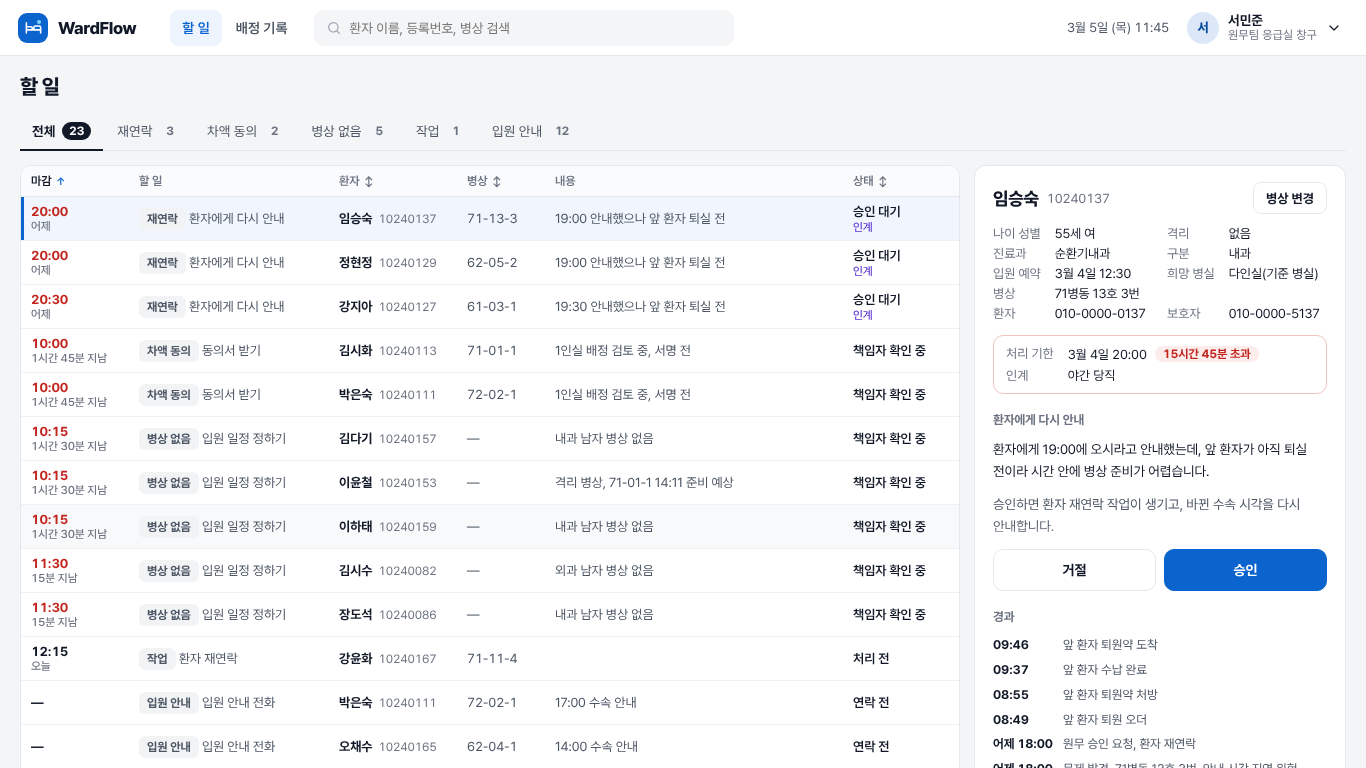
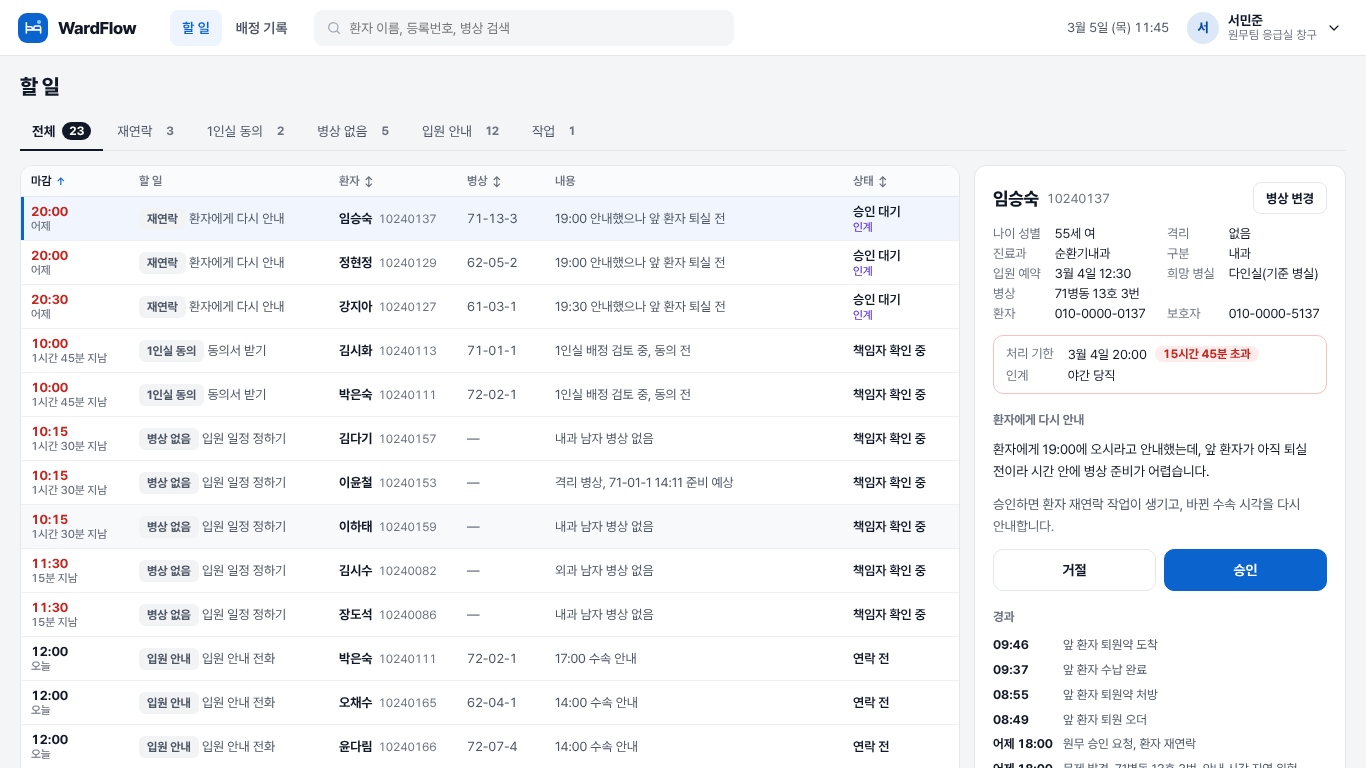
원무 검수 반영(입원 안내 마감 12시, 수속 시각 17:30까지, 입원 연기·취소 기록, 1인실 전액 부담 문구, 격리 1인실 동의 제외), 첫 요청 동시 빌드 잠금
Claude-Session: https://claude.ai/code/session_01LTbFbGTsqcm4pRk2rt9J7f

diff --git a/web/src/pages/Worklist.tsx b/web/src/pages/Worklist.tsx
@@ -9,7 +9,8 @@ import { UndoForm } from '../parts/Undo'
 
 const DAYS = ['일', '월', '화', '수', '목', '금', '토']
 // 수속 안내 시각 선택지: 15분 단위 (브라우저 언어와 상관없이 24시간제로 보이게 select로 둔다)
-const SLOTS = Array.from({ length: 49 }, (_, i) => `${String(8 + Math.floor(i / 4)).padStart(2, '0')}:${String((i % 4) * 15).padStart(2, '0')}`)
+// 입원 수속 창구 운영 시간 안에서만 고른다(강남세브란스 "오후 5시 30분 이후에는 응급실원무 창구"). 09:00~17:30
+const SLOTS = Array.from({ length: 35 }, (_, i) => `${String(9 + Math.floor(i / 4)).padStart(2, '0')}:${String((i % 4) * 15).padStart(2, '0')}`)
 const DECLINE = ['원무가 직접 처리', '환자 사정으로 보류', '병동과 통화로 해결', '기타']
 
 function clock(d: Date) {
@@ -54,7 +55,7 @@ function Memo({ v, set, need }: { v: string; set: (s: string) => void; need: boo
 // 처리 영역: 할 일 종류마다 실제로 누르는 처리 하나. 결과는 서버에 사람 기록으로 남는다.
 function Action({ r, onDone }: { r: Row; onDone: (msg: string) => void }) {
   const [time, setTime] = useState(r.suggest_at)
-  const [outcome, setOutcome] = useState<'done' | 'no_answer'>('done')
+  const [outcome, setOutcome] = useState<'done' | 'no_answer' | 'postpone' | 'cancel'>('done')
   const [choice, setChoice] = useState<string | null>(null)
   const [declining, setDeclining] = useState(false)
   const [reason, setReason] = useState<string | null>(null)
@@ -72,18 +73,21 @@ function Action({ r, onDone }: { r: Row; onDone: (msg: string) => void }) {
     <div className="seg">
       <button className={outcome === 'done' ? 'on' : ''} onClick={() => setOutcome('done')}>통화함</button>
       <button className={outcome === 'no_answer' ? 'on' : ''} onClick={() => setOutcome('no_answer')}>연락 안 됨</button>
+      <button className={outcome === 'postpone' ? 'on' : ''} onClick={() => setOutcome('postpone')}>입원 연기</button>
+      <button className={outcome === 'cancel' ? 'on' : ''} onClick={() => setOutcome('cancel')}>입원 취소</button>
     </div>
     {outcome === 'done' && (<>
       <div className="field"><label htmlFor="pt">환자에게 안내한 수속 시각</label>
         <select id="pt" value={time} onChange={e => setTime(e.target.value)}>{[...new Set([...SLOTS, r.suggest_at])].filter(Boolean).sort().map(t => <option key={t}>{t}</option>)}</select></div>
       <div className="note">추천 시각은 {r.suggest_at}입니다. 입원 예정 시각과 병상 준비 예상을 함께 본 값입니다.</div>
     </>)}
-    <Memo v={memo} set={setMemo} need={false} />
+    <Memo v={memo} set={setMemo} need={outcome === 'postpone' || outcome === 'cancel'} />
     {err && <div className="err">{err}</div>}
-    <button className="btn p full" disabled={busy || (outcome === 'done' && !time)} onClick={() => run(async () => {
+    <button className="btn p full" disabled={busy || (outcome === 'done' && !time) || ((outcome === 'postpone' || outcome === 'cancel') && !memo.trim())} onClick={() => run(async () => {
       await api.contact(r.case, outcome, time, memo)
-      return outcome === 'done' ? `${r.patient} 입원 안내를 기록했습니다` : `${r.patient} 연락 안 됨을 기록했습니다. 할 일은 남겨 둡니다`
-    })}>{outcome === 'done' ? '연락함으로 기록' : '연락 안 됨 기록'}</button>
+      return { done: `${r.patient} 입원 안내를 기록했습니다`, no_answer: `${r.patient} 연락 안 됨을 기록했습니다. 할 일은 남겨 둡니다`,
+        postpone: `${r.patient} 입원 연기를 기록했습니다. 병상을 풀었습니다`, cancel: `${r.patient} 입원 취소를 기록했습니다. 병상을 풀었습니다` }[outcome]
+    })}>{{ done: '연락함으로 기록', no_answer: '연락 안 됨 기록', postpone: '입원 연기 기록', cancel: '입원 취소 기록' }[outcome]}</button>
   </>)
 
   if (r.kind === 'task') return (<>

diff --git a/web/src/api.ts b/web/src/api.ts
@@ -64,7 +64,7 @@ export const api = {
   assign: (c: string, bed: string, reason: string, memo: string) => call('/api/assign', { method: 'POST', body: JSON.stringify({ case: c, bed, reason, memo }) }),
   assignments: (day?: string) => call<{ now: string; day: string; days: string[]; rows: Assignment[] }>(`/api/assignments${day ? `?day=${day}` : ''}`),
   patient: (c: string) => call<Patient>(`/api/patients/${encodeURIComponent(c)}`),
-  contact: (c: string, outcome: 'done' | 'no_answer', promised_at: string, memo: string) =>
+  contact: (c: string, outcome: 'done' | 'no_answer' | 'postpone' | 'cancel', promised_at: string, memo: string) =>
     call(`/api/contacts/${encodeURIComponent(c)}`, { method: 'POST', body: JSON.stringify({ outcome, promised_at, memo }) }),
   taskDone: (id: string, result: string, memo: string) => call(`/api/tasks/${encodeURIComponent(id)}/done`, { method: 'POST', body: JSON.stringify({ result, memo }) }),
   approval: (id: string, verb: 'approve' | 'decline', reason = '', memo = '') =>

diff --git a/src/turnaround/api/worklist.py b/src/turnaround/api/worklist.py
@@ -129,7 +129,9 @@ def admission_rows(st) -> dict:
     for x in a["contacts"]:
         tries = sum(1 for n in notes(ev, x["case"]) if n["tag"] == "contact_no_answer")
         reason = f"{x['suggest_at']:%H:%M} 수속 안내" + (f", 연락 안 됨 {tries}회" if tries else "")
-        add(x["case"], "contact", "입원 안내", "입원 안내 전화", None, False, x["bed"], reason,
+        # 입원 당일 오전에 연락한다(세브란스 "당일 오전(08:30~11:00)", 분당서울대 "오전 11시30분경"). 마감 12:00은 설계 가정
+        due = now.replace(hour=12, minute=0, second=0, microsecond=0)
+        add(x["case"], "contact", "입원 안내", "입원 안내 전화", due, due < now, x["bed"], reason,
             "다시 연락" if tries else "연락 전", suggest_at=f"{x['suggest_at']:%H:%M}",
             situation=f"{x['bed_ko']} 병상이 {x['committed']}에 확정됐습니다. 수속 시각과 병동을 안내하세요.")
     for x in a["tasks"]:
@@ -149,14 +151,16 @@ def admission_rows(st) -> dict:
                     "situation": f"{need}이 오늘 나지 않아 에이전트가 배정을 멈추고 원무에 넘겼습니다."
                                  + (f" 입원 예약은 {datetime.fromisoformat(req):%-m월 %-d일 %H:%M}입니다." if req else ""),
                     "effect": "환자에게 어떻게 안내했는지 고르세요."}
+        elif x["raw_kind"] == "fee_consent" and (people.get(x["case"]) or {}).get("precautions"):
+            continue  # 격리 목적 1인실은 상급병실 비용 대상이 아니다(요양급여 기준 별표 2 단서). 동의 작업을 보이지 않는다
         elif x["raw_kind"] == "fee_consent":
             # 상급병실(1인실 등)에 배정되면 차액 동의 서명을 받아야 한다 (게이트웨이가 만드는 작업, LP-22)
             rt = st.gw.room_by_id[st.gw.room_of[x["bed"]]].room_type.value if x.get("bed") in st.gw.room_of else ""
             grade = {"single": "1인실", "negative_pressure": "음압 1인실"}.get(rt, "상급병실")
-            label, action, reason = "차액 동의", "동의서 받기", f"{grade} 배정 검토 중, 서명 전"
+            label, action, reason = "1인실 동의", "동의서 받기", f"{grade} 배정 검토 중, 동의 전"
             more = {"choices": [{"label": "서명 받음", "desc": "동의서 서명 완료"}, {"label": "동의 안 함", "desc": "기준 병실로 다시 찾아야 함"},
                                 {"label": "기타", "desc": "메모에 내용 적기"}],
-                    "situation": f"{grade} 배정을 검토 중입니다. 기준 병실과의 차액에 대해 환자나 보호자의 동의 서명이 필요합니다."}
+                    "situation": f"{grade} 배정을 검토 중입니다. 상급병실은 입원실 이용 비용 전액을 본인이 부담하므로(요양급여 기준 별표 2) 환자나 보호자의 동의가 필요합니다."}
         else:
             label, action, reason = "작업", x["kind"], _short(x.get("why") or "")
             more = {"choices": [{"label": "처리함", "desc": "처리를 마쳤습니다"}, {"label": "기타", "desc": "메모에 내용 적기"}],

diff --git a/tests/test_api.py b/tests/test_api.py
@@ -304,3 +304,18 @@ def test_ward_nurse_cannot_switch_to_other_ward_and_admin_cannot_act_as_admissio
     assert client.get("/api/worklist", headers=a).status_code == 403
     rows = _rows(client, _login(client))
     assert client.get(f"/api/patients/{rows[0]['case']}", headers=a).status_code == 403  # 의료정보팀은 환자 정보가 아니라 접속기록을 본다
+
+
+def test_contact_can_record_cancel_and_releases_bed():
+    c = TestClient(create_app())
+    h = _login(c)
+    row = next(r for r in _rows(c, h) if r["kind"] == "contact")
+    assert row["due"] == "12:00"  # 입원 당일 오전 연락 마감
+    assert c.post(f"/api/contacts/{row['case']}", json={"outcome": "cancel", "memo": ""}, headers=h).status_code == 422
+    r = c.post(f"/api/contacts/{row['case']}", json={"outcome": "cancel", "memo": "보호자 사정으로 취소"}, headers=h)
+    assert r.status_code == 200, r.text
+    assert row["case"] not in {x["case"] for x in _rows(c, h) if x["kind"] == "contact"}
+    from turnaround.saga import fold
+    st = c.app.state.store.demo()
+    m = fold(st.store.read()).matches.get(row["case"])
+    assert m is None or not m.active  # 사가가 병상을 풀었다

diff --git a/src/turnaround/ui/demo.py b/src/turnaround/ui/demo.py
@@ -35,6 +35,7 @@ class DemoState:
     reviewer: object = None  # 사람 응답 모형 (없으면 늘 승인, 로드맵 07 M3)
     log: list[str] = field(default_factory=list)
     advance: object = None  # advance(to): 재생을 이어서 돌린다
+    saga: object = None  # 화면에서 사람이 사건을 남긴 뒤 사가를 한 번 돌릴 때 쓴다(입원 취소 등)
     live_from: datetime | None = None  # 이 시각부터 원무 연락은 화면의 사람이 한다(웹 운영 화면, 측정에는 쓰지 않음)
 
 
@@ -97,6 +98,7 @@ def build_demo(seed: int = 42, day: int = 2, until: time = time(9, 30), via_fhir
     base = datetime.combine(h.config.base_date + timedelta(days=day), time())
     end = datetime.combine(base.date(), until)
     st = DemoState(h, store, gw, agent, base - timedelta(hours=8), entries)
+    st.saga = saga
     if live_from is not None:
         st.live_from = datetime.combine(base.date(), live_from)
     st.reviewer = reviewer

diff --git a/docs/검토/현실괴리/03_감염관리.md b/docs/검토/현실괴리/03_감염관리.md
@@ -1,0 +1,62 @@
+# 현실 격차 검토 03: 감염관리실·감염내과 당직 (병상 턴어라운드 흐름)
+
+작성 2026-11-10. 저장소는 바꾸지 않았다. 이 문서는 검토 기록이다.
+
+## 0. 이번에 직접 연 1차 출처
+
+| 약칭 | 문서 | URL | 확인 방법 |
+|---|---|---|---|
+| HAI2026 | 질병관리청 「2026년도 의료관련감염병 관리지침」(게시 2026.02.02, 166쪽) | https://www.kdca.go.kr/bbs/kdca/55/305038/download.do (게시글 https://www.kdca.go.kr/bbs/kdca/55/309968/artclView.do) | curl로 받고 pdftotext로 원문을 읽음 |
+| 업무지침서 | 질병관리청 「감염관리실 업무 지침서」(2024) | https://www.kdca.go.kr/bbs/kdca/55/260019/download.do | 앞선 세션에서 받은 PDF 원문(scratchpad research/field/kdca.pdf) |
+| 표준2017 | 질병관리청 「의료관련감염 표준예방지침」(2017), 부록 1 다제내성균, CDI 지침 포함 | (제3자 사본, 프로젝트가 이미 쓰는 사본) | 사본 원문(scratchpad research/field/std.txt) |
+| 가이드맵 | 질병관리청 「의료감염관리 지침·안내서 가이드맵」(2026.3 기준) | https://kdca.go.kr/bbs/kdca/49/305914/download.do | curl과 pdftotext |
+| 보도2026 | 질병관리청 보도자료 「의료기관 다제내성균 감염관리 우선순위 제시」(2026.10.28) | https://www.kdca.go.kr/bbs/kdca/42/310486/download.do (게시글 https://kdca.go.kr/bbs/kdca/42/313069/artclView.do) | curl과 pdftotext |
+| 경기CRE | 경기도감염병관리지원단 「전수감시 의료관련감염병(VRSA, CRE) 실무 참고서」 | 기존 조사(현장조사/감염관리_청소_실무.md 1-6)의 URL | 사본 원문 |
+| 권고안 | 질병관리청 「의료기관 환경 표면 청소 및 소독 권고안」(2022) | 기존 조사(3-5)의 대구시 게시본 | 사본 원문 |
+
+가이드맵(2026.3)을 보면 표준예방지침의 최신판은 아직 **2017**이다("의료관련감염 표준예방지침 … 2017 2005 2017"). 그래서 표준2017을 인용하는 것은 지금도 맞다. 해마다 바뀌는 문서는 의료관련감염병 관리지침(2026판)이다. 아래 격차는 대부분 2026판 문구와 대조한 결과다.
+
+## 1. 격차 표
+
+| 번호 | 우리 현재(파일:줄) | 현실(근거 원문 인용 + URL) | 심각도 | 고칠 방향 |
+|---|---|---|---|---|
+| G1 | **접촉주의 병원체는 모두 1인실 또는 코호트실에만 둔다.** 대응표 `src/turnaround/sim/models.py:48-59`에서 MRSA·VRE·CRE·CDIFF가 모두 접촉주의다. `ontology/shapes.ttl:17-25` `IsolationRoomShape`가 다인실을 위반으로 막는다. 에이전트 후보는 SHACL 위반이 없는 병상뿐이다(`agent/tools.py:180` `room_ok[r] = not self.gw._shacl(...)`). 그래서 자리가 없으면 `no_bed`로 간다. 다인실 제자리 격리는 사람의 직접 수정에서만 열린다(`config/policy.yaml:37` `isolation_room: reason_entry`, 사후 검토). 어떤 균을 격리실에 둘지 병원이 정하는 설정도 없다. | ① 보도2026: "21개 참여병원 전체에서 CP-CRE 에 대해서는 병동, 중환자실에서 모두 격리를 시행하는 반면 MRSA는 8개 병원만 격리를 시행하는 것으로 조사되었다. 또한 격리를 시행하는 병원들에서도 별도의 격리장소를 운영하는 경우는 10-30%에 불과" (https://www.kdca.go.kr/bbs/kdca/42/310486/download.do) ② HAI2026 CRE 관리지침 74쪽(VRSA 20쪽도 같은 문구): "구조적 문제 등으로 코호트 격리도 어려운 경우, 환자 병상 간 이격거리는 1m 이상 유지하고, 접촉의 기회를 줄이기 위해 가급적 물리적 차단막을 설치" (https://www.kdca.go.kr/bbs/kdca/55/305038/download.do) ③ 업무지침서 75쪽: "격리실 사용이 필요한 감염성 질환을 정한다." | 높음 | 병원 프로필에 `isolation.room_required_organisms`(격리실이 필요한 균)를 둔다. 기본값은 CRE/CPE, VRSA, 공기주의, CDI로 하고, 나머지 접촉주의 균은 병원 규칙으로 정한다. 그 밖의 접촉주의 환자는 1인실, 코호트, **다인실 제자리 격리(1m, 차단막)** 순으로 에이전트가 제안하게 한다. 이때 감염관리실에 통보하고 사후 검토를 건다. CRE의 사전 승인(`preapproval_organisms`)은 그대로 둔다. 수치(8/21)는 "합성 데이터 기준"과 섞지 말고 근거 카드에만 쓴다. |
+| G2 | **코호트실이 아닌 다인실에서는 동실자 취약성을 검사하지 않는다.** `shapes.ttl:43-49` `ProtectiveInCohortShape`는 `cohortKey`가 있는 병실만 본다. 사유 입력으로 다인실에 넣는 직접 수정 경로(`gateway/gateway.py:1140-1150`)와 G1을 고친 뒤의 제자리 격리에서는 면역저하·개방창상 동실자가 걸러지지 않는다. 반대 방향도 같다. 면역저하 일반 환자를 제자리 격리 환자가 있는 다인실에 넣는 것을 막는 형상이 없다. | ① 표준2017 5.4.2.4: "코호트 격리도 어려운 상황에서 비말주의가 필요한 환자와 동일한 병원체에 감염되지 않은 다른 환자가 공동으로 병실을 사용해야 하는 경우에는 감염의 전파로 인해 예후가 좋지 않을 수 있는 환자(예, 면역저하 환자 등)와 같이 두어서는 안 된다" ② 표준2017 부록1 5.2.1: "코호트 격리도 불가능하다면 다제내성균으로 인한 감염 위험이 높은 환자(면역저하자나 개방창상이 있는 환자 등)와 같은 병실을 피하며" ③ 업무지침서 75쪽: "코호트 격리도 어려운 경우에는 가능한 면역저하자와 동일 병실에 배치하지 않고" (https://www.kdca.go.kr/bbs/kdca/55/260019/download.do) | 높음 | 새 형상 `VulnerableRoommateShape`를 둔다. 격리(접촉·비말) 환자와 면역저하·개방창상 환자가 코호트가 아닌 같은 다인실에 있으면 위반이다. 양방향으로 본다. 예외 등급은 비말이면 금지(지침이 "안 된다"), 접촉이면 사전 승인으로 하는 안을 검토한다. 파이썬 검사기 `evaluation/invariants.py`에도 같은 규칙을 넣는다(교차 확인 원칙). |
+| G3 | **격리실이 부족할 때의 우선순위가 없다.** 입원 정렬은 `admission_priority: [icu_stepdown]`뿐이다(`agent/tools.py:102-114`, `policy.yaml:45`). 설사, 변실금, 창상 배액, 다량 객담 같은 전파 위험 필드가 생성기와 모델에 없다(검색 결과 없음). 늦은 격리가 아닌 일반 격리 검토는 원무가 승인한다(`gateway.py:490-499` `review_decider`의 기본값 `bed_manager`). | ① 표준2017 부록1 5.2.1: "격리실이 제한된 경우, 격리실의 우선 순위는 균의 종류와 환자의 상태에 따라 위험평가(Risk assessment)를 하여 감염관리실무자가 결정한다. … 전파의 위험이 큰 환자(설사, 창상배액, 요/변실금, 다량의 호흡기 분비물)부터 우선적으로 배정한다." ② 표준2017 5.4.2.2: "1인실의 수가 제한적이라면, 과도한 기침과 객담이 있는 환자, 활동량이 많을 것으로 예상되는 환자는 1인실을 우선적으로 배치한다" ③ 업무지침서 75쪽: "격리우선 대상을 정할 때는 가능한 전파경로, 다른 환자에게 전파될 경우 파급 효과의 크기, 환경 오염 정도와 주의 조치를 지키기 어려운 상태의 정도 등을 고려한다." | 중간 | 입원 요청에 전파 위험 표지(`diarrhea`, `incontinence`, `wound_drainage`, `copious_secretions`)를 합성 필드로 넣는다. **격리실 경합**이 생기면(격리 환자 둘 이상, 1인실·코호트 자리가 모자람) 결정적 도구가 위험 표지 순으로 후보 순서를 매긴다. 그 결정은 원무가 아니라 감염관리실(근무 외 당직)의 검토로 보낸다. 경합이 없으면 지금처럼 원무가 처리한다(기존 조사 6-1의 "배정마다 승인하지 않음"과 맞춘다). |
+| G4 | **제자리 격리 환자를 1인실로 옮기는 일을 추적하지 않는다.** 1인실이 비면 새 입원 대기에 바로 매칭된다. 이미 다인실에서 제자리 격리 중인 재원 환자가 먼저라는 신호가 없다. 사유 입력 직접 수정의 사후 검토(`gateway.py:1175-1178`, 다음 근무일 정오 기한)는 "이 배치가 맞았나"만 묻고 "자리가 나면 옮긴다"를 묻지 않는다. | HAI2026 CRE 74쪽, VRSA 20쪽: "* 격리 가능한 상황이 되면 지체없이 1인실 격리(또는 코호트 격리) 시행" (https://www.kdca.go.kr/bbs/kdca/55/305038/download.do) | 중간 | 원내 전동(GW-15)은 "설계" 항목이라 구현하지 않는다(CLAUDE.md 5번). 대신 알림만 둔다. 1인실·코호트실이 준비되고 제자리 격리 재원 환자가 있으면, 새 입원에 매칭하기 전에 감염관리실과 원무에 "제자리 격리 환자 n명, 이 병상 우선 검토"를 띄운다. 매칭은 막지 않고 그 판단을 사람에게 묻는다. 비계획 공실 원인 목록(R-40)에도 이 전실을 더한다. |
+| G5 | **환자 한 명에 병원체를 하나만 둔다.** `sim/models.py:131` `organism: str \| None  # 병원체 = 코호트 키`. 코호트 검사(`shapes.ttl:24-25, 40-41`)는 이 값 하나와 병실 `cohortKey`만 비교한다. 그래서 CDI와 VRE를 함께 가진 환자를 나타낼 수 없다. 입력이 하나로 줄면 CDI 코호트실을 통과한다. | 표준2017 CDI 지침(부록, 접촉 격리 해설): "1인 병실에 입원하는 것이 어려우면 CDI 확진 환자들과 병실을 공유할 수 있다(코호트). … 각각의 환자들이 CDI 외에 다른 감염균(예, MRSA, VRE)에 감염된 경우는 같은 방에 코호트하지 않는다(13)." | 중간 | `organisms: set[str]`으로 바꾼다(LP-16이 주의를 집합으로 바꾼 것과 같은 방식이다. 기존 `organism`은 호환 필드로 둔다). 코호트 조건은 "환자의 병원체 집합 = 코호트 키 하나"로 한다. 병원체가 둘 이상이면 1인실만 쓴다. |
+| G6 | **감염관리실이 접촉자를 볼 수 없다(화면을 만들 때 드러날 문제).** `api/app.py:204-206`에서 `ipc`·`id_oncall`은 `patient.precautions or patient.isolation_order`인 환자만 연다. 그런데 사가는 격리 오더 뒤 동실 접촉자 목록을 감염관리실에 보낸다(`saga/isolation.py:102-124` `CONTACT_TRACE_REQUESTED`, `to="ipc"`). 접촉자는 격리 환자가 아니므로 감염관리실이 열면 403이 난다. 접촉 범위도 같은 다인실뿐이다(`isolation.py:108-110`, 1인실이 아니면 다인실만 봄). | ① HAI2026 CRE 76쪽: "접촉자 조사 후 역학적 연관성 등을 토대로 접촉자 검사 시행" ② HAI2026 CRE 선별검사 권고 대상(80쪽): "CRE 감염이 새롭게 확인된 환자와 역학적으로 관련이 있는 접촉자 (예. 같은 병실 또는 같은 병동 등)" ③ HAI2026 부록 Q&A 5(124쪽): "항생제 내성균 환자 발생 즉시 접촉자를 대상으로 능동감시 결과가 나올 때까지 코호트 격리하고 병실 이동을 제한합니다." | 중간 | `may_view`의 감염관리실 조건에 "열린 접촉자 조사(`CONTACT_TRACE_REQUESTED`)에 든 사례"와 "감시 대기(`surveillance_hold`) 병실의 재원 환자"를 더한다. 접속기록은 그대로 남긴다. 접촉 범위(병실 또는 병동)는 병원 설정으로 둔다. 기본값은 병실이다. |
+| G7 | **코호트실 배치 제외 대상이 지침보다 좁다.** `sim/models.py:134-135`에는 면역저하와 개방창상만 있다. `shapes.ttl:43-49`도 이 둘만 본다. | HAI2026 CRE 73쪽, VRSA 19-20쪽: "코호트 격리에서 접촉주의 환자는 감염전파로 인하여 예후가 좋지 않을 수 있는 환자*와 같은 병실에 배치하지 않음 * 예) 면역저하 환자, 개방성 창상이 있는 환자, **혹은 오랜 기간 입원이 필요한 환자**" | 낮음 | `expected_long_stay`(예상 장기 재원) 합성 필드를 둔다. 코호트실 제외 조건에 넣고 등급은 사전 승인으로 한다. "장기"의 기준 일수는 지침에 없으므로 설계 가정으로 표시한다. |
+| G8 | **다제내성균 격리 해제를 누가 냈는지 검사하지 않는다.** `gateway.py:127-128`이 `ISOLATION_RELEASED`를 받는 대로 `apply_release`(`events/corrections.py:37-39`)에 적용한다. 그러면 주의, 병원체, 상태가 모두 지워진다. LP-19는 "다제내성균 격리와 해제는 감염관리실이 정한다"인데 해제 주체를 확인하는 코드가 없다. 정정 경로에서는 완화를 사람 확인 뒤에 반영하는데(EVT-4), 해제는 이 원칙의 예외로 남아 있다. | HAI2026 CRE 74쪽: "※ 격리의 해제에 대해 명확히 정해진 바는 없으며, 능동감시(보균검사)에서 반복적으로 음성이었다가 다시 양성으로 나타나는 경우가 있으므로 **감염관리실무자는** 균주의 역학과 환자의 임상상태를 고려하여 격리해제의 시기를 결정" (표준2017 부록1 5.3.1도 같은 취지) | 낮음 | 해제 대상 병원체가 다제내성균(`_MDRO`, CRE/CPE, VRSA)이고 `ordered_by`가 `ipc`가 아니면 바로 적용하지 않는다. 대신 감염관리실 확인 작업을 만든다. 정정의 "완화는 확인 뒤"와 같은 처리다. 막지는 않고 확인을 기다린다. |
+| G9 | **음압실 공기순환 12회가 "설계 가정"으로 붙어 있다.** `src/turnaround/rules.py:25-26` `DEFAULT_ACH = {"negative_pressure": 12, …}`, `policy.yaml:154`의 cite가 "병실 순환 횟수 기본값(음압 12, 일반 4)은 설계 가정"이다. | 표준2017 5.5.3.1: "음압격리실은 시간당 최소한 6회 이상의 공기가 순환되도록 하며, 신규설비의 경우 시간당 12회 이상을 권장한다." | 낮음 | 음압 12회의 출처 등급을 guideline(신규 설비 권장값)으로 올리고 하한 6회를 적는다. 병실 데이터에 순환 횟수가 있으면 그 값을 쓴다. 6회 병실이면 99.9% 제거에 69분이 든다(지침 부록 3). 일반실 4회는 근거가 없으니 설계 가정으로 남긴다. |
+| G10 | **병원체 목록에 지침이 격리실 대상으로 꼽은 균·질환이 빠져 있다.** `sim/models.py:48-59`에 VRSA/VISA, 옴, 파종성 대상포진이 없다. `sim/generator.py:94` `_MDRO = {"MRSA", "VRE", "CRE"}`에는 VRSA와 CPE가 없다. 정책은 `preapproval_organisms: [CRE, CPE]`(`policy.yaml:40`)인데 생성기는 CPE를 만들지 않아서 CPE 경로를 시험하지 않는다. | 업무지침서 75쪽: "격리가 필요한 감염성 질환: … 제2급 감염병(… 수두, … 활동성 폐결핵, VRSA, VISA, CRE), … 기타 감염병(C. difficile 감염증, 파종성 대상포진, 옴) 등". HAI2026 VRSA 관리지침에도 CRE와 같은 병실 배치 문구가 있다(19-20쪽). | 낮음 | 대응표에 VRSA(접촉), 파종성 대상포진(공기+접촉), 옴(접촉)을 더한다. `_MDRO`에 VRSA와 CPE를 넣는다. 생성기 병원체 구성에 CPE 한 건을 넣어 사전 승인 경로가 실제로 돌게 한다. |
+
+## 2. 기존 지적 중 아직 반영되지 않은 것 (새 근거만 덧붙임)
+
+- **격리 해제와 전실 때의 소독**: 기존 조사(`docs/검토/현장조사/감염관리_청소_실무.md` 3절 127행)가 병원간호사회 156을 근거로 이미 지적했다. 이번에 1차 쪽 근거를 더 찾았다. 권고안 정의는 "퇴실 후 청소(terminal cleaning) - … 퇴원, 사망 또는 전실 후 환자의 병실 또는 침대 공간의 철저한 청소"다. 경기CRE 부록 1 환경관리 표에는 "커튼은 … 다제내성균 … 등 접촉주의를 적용하는 환자가 퇴원, 전실, 격리 해제한 후에는 즉시 교환"이라고 적혀 있다. 지금 사가는 퇴실, 사망, 급변 전동 때만 종말소독을 요청한다(`saga/machine.py:629-634`). 퇴실과 전동 쪽은 위 정의와 맞는다. **재원 중 격리 해제** 때는 요청하지 않는다. 다만 이 경우는 재원 환자의 병상이라 턴어라운드 영향이 작다. 코호트실이 해제되어 일반실이 되는 경우만 소독 전 배정 금지가 필요하다.
+
+## 3. 점검했고 현실과 맞는 것
+
+| 항목 | 우리 | 근거 |
+|---|---|---|
+| 공기주의는 음압실, 활동성 결핵은 방 공유 금지, 홍역·수두는 같은 바이러스끼리 코호트 가능 | `shapes.ttl:27-33, 59-64`. 금지 대상은 결핵뿐이다 | 표준2017 5.5.2.1 "공기주의가 필요한 환자는 음압격리실에 배치한다", 5.5.2.4 "홍역이나 수두처럼 … 코호트 격리를 할 수 있다. 활동성 폐결핵은 … 방을 공유하지 않는다" |
+| 공기주의 일반실 배치는 감염관리 전문가가 사전 승인 | `policy.yaml:33` | 표준2017 5.5.2.6 "감염관리 전문가와 상의한다" |
+| CRE는 1인실이 최우선이고, 다인실로 갈 때는 사전 승인 | `policy.yaml:39-40` | 표준2017 부록1 5.2.1 "카바페넴 내성 장내세균이 분리되는 경우에는 가장 우선적으로 가능한 한 1인실 격리". 보도2026에서도 21개 병원 모두 CP-CRE를 격리한다 |
+| 선제 격리는 병원 규정에 따른 알림이고 강제하지 않음 | `saga/isolation.py:30-39`, DECISIONS 2026-11-09 | HAI2026 80쪽 "CRE 선별검사는 각 의료기관의 내규에 따르며", 부록 참고2 "가능하다면 선제격리를 시행한다" |
+| 중환자실에서 온 환자를 위험 조건으로 봄 | `field_default.yaml:23` `icu_transfer` | HAI2026 Q&A 5 "중환자실에서 타 병동으로 전실하는 경우 선제 격리를 위한 공간을 마련하고 전실 후 능동감시 결과에 따라 격리실 또는 일반병실로 이동" |
+| 선제 격리 해제는 사람이 낸다(음성 2회) | 회귀 실행기 `evaluation/runners_gateway.py:442-443` `reason="screening_negative_x2"`. 음성 결과 하나로 자동 해제하지 않음 | 표준2017 부록1 6.2 "1일 이상 간격을 두고 추가 검사를 시행하여 2회 연속 음성을 확인한 후에 격리를 해제" |
+| 동실자 감시 대기 때 이동과 신규 입실을 막음 | `gateway.py:1110-1112`, LP-26 | HAI2026 참고2 5항 "결과 확인 전까지 새로운 환자의 입원 제한 필요성을 검토", 나. 2항 "환자가 발생한 병실은 신환자의 입원을 제한" |
+| 격리 퇴실은 종말소독 완료까지 배정·빈 병상 전환 금지 | `shapes.ttl:90-114` | HAI2026 74쪽 "접촉주의는 환자가 퇴실 후 병실 청소를 완료할 때까지 유지" |
+| C. difficile 퇴실은 아포 소독 | `shapes.ttl:124-130` | 기존 조사 5-1(권고안 5,000ppm). 이번에 다시 확인할 것은 없었다 |
+| 내성균 보균 때문에 퇴원을 미루지 않음 | 보균을 퇴원 지연 사유로 쓰는 코드가 없다 | HAI2026 부록 "CRE 보균상태로 인해 퇴원을 연기할 근거는 없습니다" |
+| 늦은 격리에서 병상 결정은 감염관리실이 함 | `gateway.py:478-499` | 표준2017 부록1 5.2.1 "감염관리실무자가 결정" |
+| 비말주의 환기 대기 | MA-07에서 이미 정리됨 | 다시 다루지 않음 |
+| 표준예방지침 판수 | 2017을 인용함 | 가이드맵 2026.3: 최신판 2017, 개정 없음 |
+
+## 4. 확인 안 됨 (격차로 내세우지 않음)
+
+- **야간·휴일에 감염내과 당직이 감염관리실 결정을 대행하는가(MA-01, AS-A7)**: 이번에도 국내 1차 출처를 찾지 못했다. 보도2026에는 "감염내과 전문의는 조사 대상 21개소 모두에 배치되어 있었으나, 감염관리 전담의사를 둔 기관은 1개소(5%)에 불과"라고 나온다. 감염내과 의사가 병원에 있다는 사실은 확인되지만, 야간 대행 체계까지 뒷받침하지는 않는다. 근무 시간에는 `ipc`만, 근무 외에는 `id_oncall`만 승인하게 하는 배타 규칙(`gateway.py:478-484`)이 현실에 맞는지도 확인하지 못했다. 설계 가정 표시를 그대로 둔다.
+- **CPE를 카바페넴분해효소 유형(KPC, NDM 등)별로 코호트하는가**: HAI2026의 효소 일치 문구("발생된 CPE의 카바페넴분해효소 … 가 동일한가?")는 집단발생 역학 연관 판단에 쓰는 것이다. 코호트 기준은 "동일한 병원균"이라고만 적혀 있다. 지금의 `CRE` 단일 키를 격차로 보지 않는다.
+- **칸디다 오리스(C. auris)**: 가이드맵(2026.3)에 「칸디다 오리스(C. auris) 의료기관 감염관리 권고안」(2026)이 있지만 본문은 열지 못했다. 병원체 대응표에 넣을지는 본문을 확인한 뒤 정한다.
+- **음압격리병실 세부 시설 기준 고시**: 의료법 시행규칙 별표 4는 "보건복지부장관이 정하는 기준에 따라 전실 및 음압시설 등을 갖춘 병실"이라고만 한다. 세부 고시 수치는 열지 못했다(law.go.kr 연결이 끊김). G9는 표준2017 수치로만 적었다.
+- **CRE 2급 감염병 24시간 신고**: HAI2026에서 확인했다("제2급감염병 또는 제3급감염병의 경우에는 24시간 이내"). 다만 병상 턴어라운드 범위 밖이라 격차로 보지 않는다.
